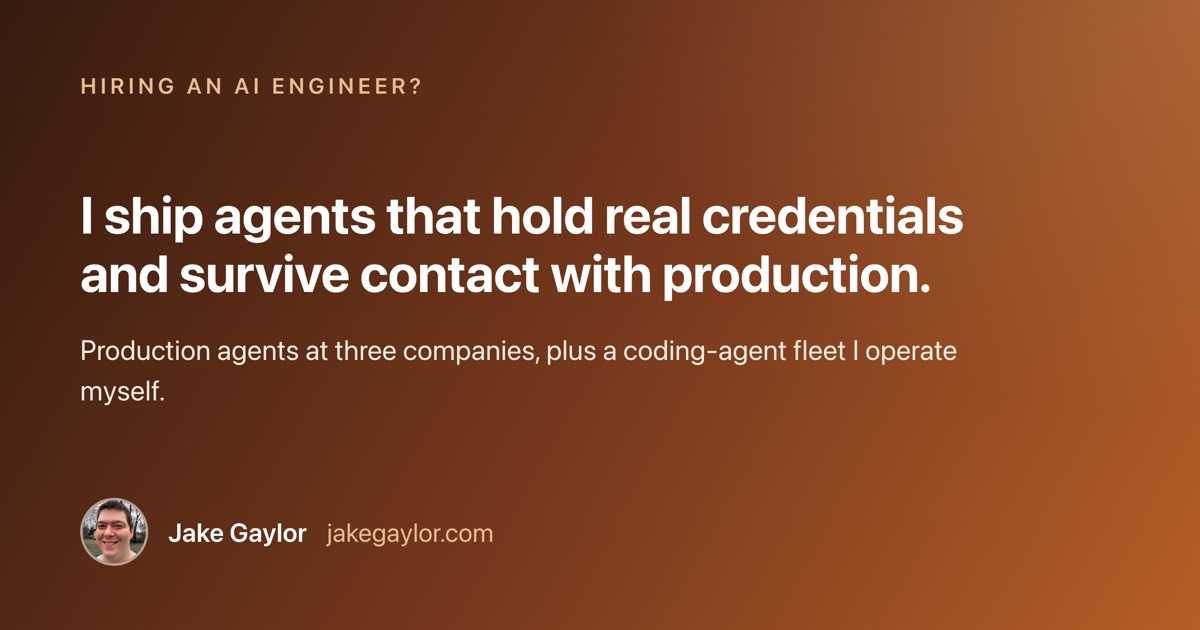
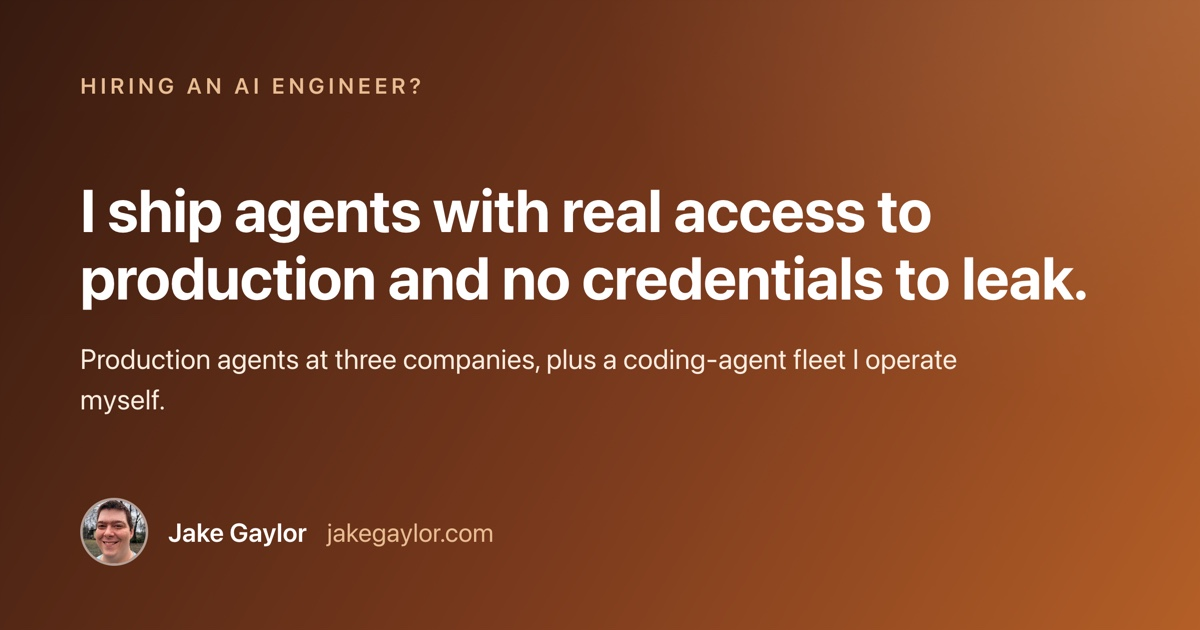
ai page: access through gates, not credentials in agent hands
The previous headline claimed agents hold real credentials, which
is backwards. Agents get brokered access through a proxy that holds
the keys; the agent never touches them.

Corrected the h1, the OG card title and alt, the hero subheadline,
the receipts subhead, and the Cloaked card. Rewrote the day-2
identity card to describe the proxy instead of key possession.

The Ravi card keeps "manage their own accounts, secrets, and 2FA"
since that describes that product, not how I build agents.

Changed region(s): [[0.0617, 0.3016, 0.925, 0.4825], [0.0617, 0.5429, 0.8017, 0.6635]]

diff --git a/ai-engineer.html b/ai-engineer.html
@@ -5,7 +5,7 @@ description: Jake Gaylor has shipped production AI agents at three companies. La
 socialDescription: Production agents at three companies, a $400K-funded agent-native SaaS, MCP protocol work, and a coding-agent fleet I operate myself.
 canonicalPath: /ai-engineer/
 og_image: /images/og/role-ai-engineer.jpg
-og_image_alt: Hiring an AI engineer? I ship agents that hold real credentials and survive contact with production.
+og_image_alt: Hiring an AI engineer? I ship agents with real access to production and no credentials to leak.
 ---
 
 {% assign ctaPrefix = "ai" %}
@@ -19,13 +19,13 @@ og_image_alt: Hiring an AI engineer? I ship agents that hold real credentials an
         AI Engineer &middot; Senior / Staff
       </p>
       <h1 class="text-4xl md:text-5xl font-bold mb-6 leading-tight">
-        I ship agents that hold real credentials
-        <span class="text-transparent bg-clip-text bg-gradient-to-r from-brand-200 to-white"> and survive contact with production.</span>
+        I ship agents with real access to production
+        <span class="text-transparent bg-clip-text bg-gradient-to-r from-brand-200 to-white"> and no credentials to leak.</span>
       </h1>
       <p class="text-xl text-brand-100 mb-10">
         I&rsquo;ve had agents in production since LangChain was new. The models change monthly and the discipline
-        doesn&rsquo;t. Give an agent real work, real credentials, and a sandbox, then let the numbers decide what
-        it earns next.
+        doesn&rsquo;t. Give an agent real work, a proxy that holds the keys, and a sandbox, then let the numbers
+        decide what it earns next.
       </p>
       {% include "partials/hero-ctas.html" %}
     </div>
@@ -37,7 +37,7 @@ og_image_alt: Hiring an AI engineer? I ship agents that hold real credentials an
   <div class="container mx-auto px-6">
     <div class="max-w-3xl mx-auto text-center mb-14">
       <h2 class="text-3xl md:text-4xl font-bold mb-4">Agents with real access</h2>
-      <p class="text-lg text-gray-600">Four places I handed an agent live credentials and let it work.</p>
+      <p class="text-lg text-gray-600">Four places I gave an agent real access and kept the keys out of its reach.</p>
     </div>
 
     <div class="grid grid-cols-1 md:grid-cols-2 gap-6 max-w-5xl mx-auto">
@@ -46,13 +46,13 @@ og_image_alt: Hiring an AI engineer? I ship agents that hold real credentials an
         <div class="text-xs font-semibold uppercase tracking-wide text-gray-900 mb-4">agents on user accounts, at Cloaked</div>
         <p class="text-gray-700 leading-relaxed">
           I built autonomous LangChain agents that change passwords, log in, and manage email on users&rsquo; behalf.
-          Holding live account credentials is the hard part, and these held them in product. They became a core
+          Acting on live user accounts is the hard part, and these did it in product. They became a core
           fundraising narrative and powered an AI onboarding experience that measurably boosted adoption and retention.
         </p>
       </div>
       <div class="bg-white rounded-2xl p-8 border border-brand-100 shadow-sm">
         <div class="text-4xl font-bold text-brand-600 mb-1">$400K</div>
-        <div class="text-xs font-semibold uppercase tracking-wide text-gray-900 mb-4">pre-seed for agents that hold their own secrets</div>
+        <div class="text-xs font-semibold uppercase tracking-wide text-gray-900 mb-4">pre-seed for agents with their own identity</div>
         <p class="text-gray-700 leading-relaxed">
           I cofounded Ravi, where AI agents manage their own accounts, secrets, and 2FA. It raised a $400K pre-seed
           from South Park Commons and grew to hundreds of users, with the instrumented v1&rsquo;s real usage data
@@ -95,7 +95,7 @@ og_image_alt: Hiring an AI engineer? I ship agents that hold real credentials an
     <div class="grid grid-cols-1 md:grid-cols-3 gap-6">
       <div class="bg-brand-50 rounded-2xl p-7 border border-brand-100">
         <div class="text-brand-600 font-bold mb-2">Agents with real identities</div>
-        <p class="text-gray-600">My fleet works under its own GitHub account with its own scoped credentials. Delegation only works when an agent can hold keys you can revoke in one move, and mine do.</p>
+        <p class="text-gray-600">My fleet works under its own GitHub account with its own scoped credentials, and the agents never touch them. A proxy holds the keys and brokers every call, so access dies in one move and no secret ever lands in a context window.</p>
       </div>
       <div class="bg-brand-50 rounded-2xl p-7 border border-brand-100">
         <div class="text-brand-600 font-bold mb-2">Sandboxes and review gates</div>
